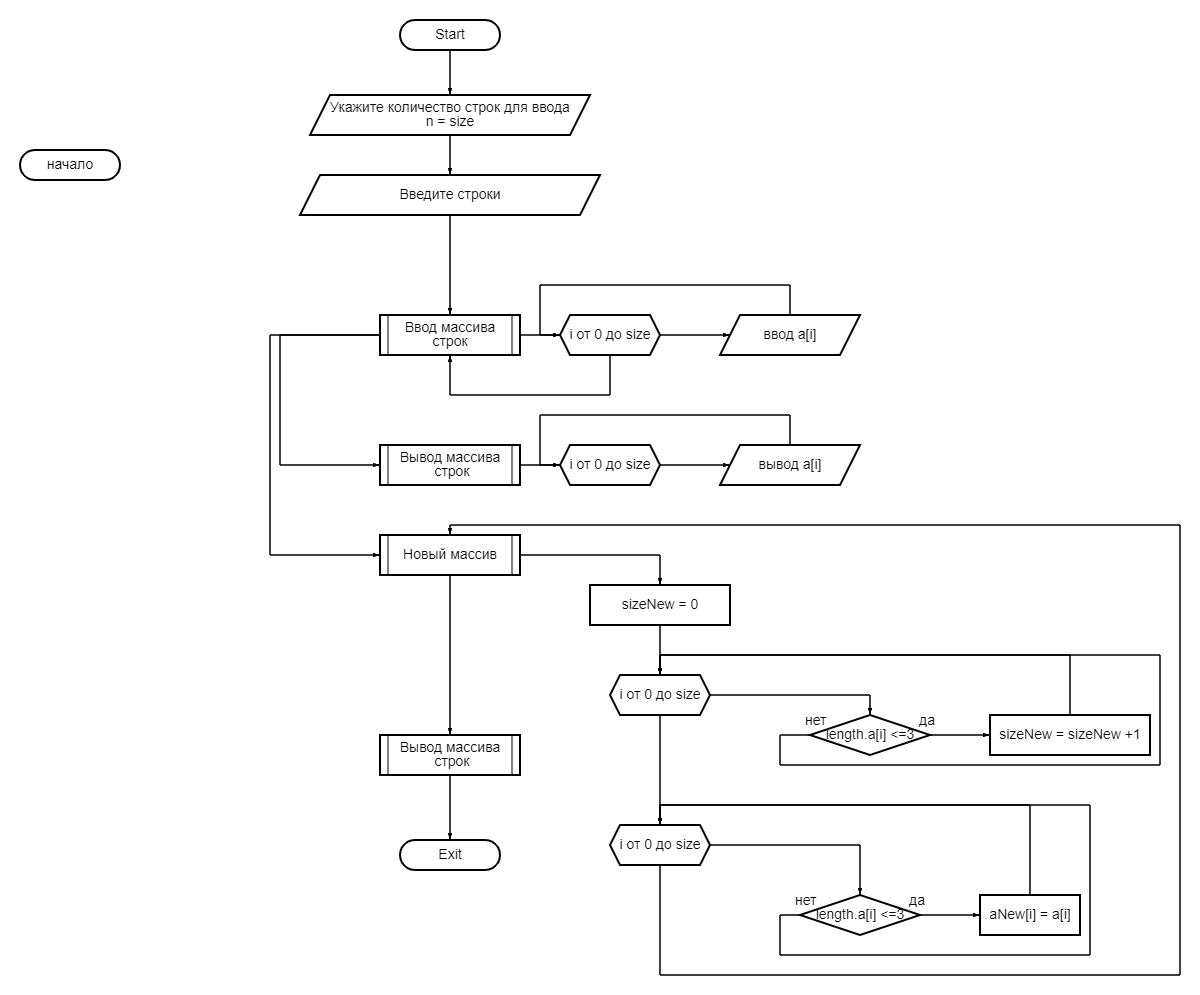
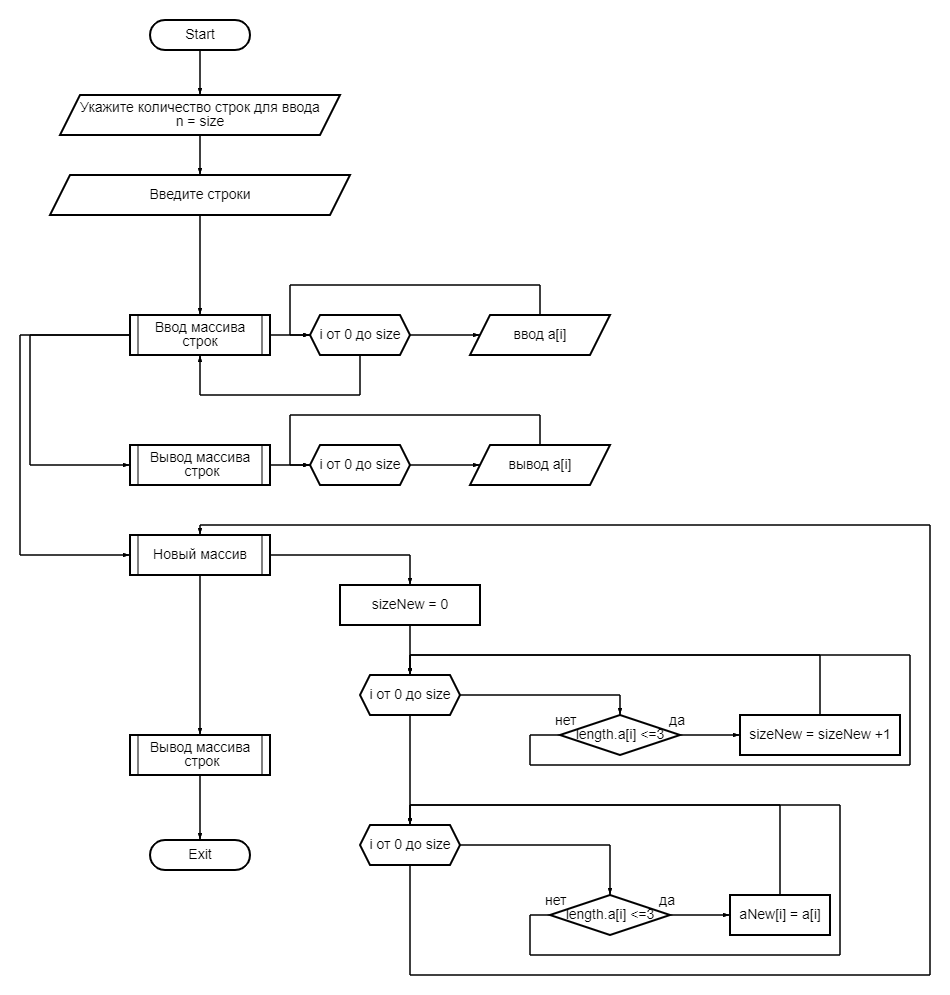
reload diagram and create readme-file

diff --git a/Control_1Q/README.md b/Control_1Q/README.md
@@ -1,0 +1,44 @@
+# Задача:
+_Программа решает следующую задачу :_
+
+Написать программу, которая из имеющегося массива строк  формирует массив из строк, длина которых меньше либо равна 3 символа. Первоначальный массив можно ввести с клавиатуры, либо задать на старте выполнения алгоритма. При решении не рекомендуется пользоваться коллекциями, лучше обойтись исключительно массивами
+
+Пример: 
+
+["hello", "2", "world", ":-)"] -> ["2", ":-)"] 
+
+# Реализация: 
+Порядок действий по блок - схеме:
+
+1. Программа принимает на ввод массив строк (через функцию _GetStringArray_);
+2. Рассчитывает количество слов в начальном массиве, длина которых меньше или равна 3 символам (через функцию _HowManyLessThanTreeLetters_);
+3. Формирует новый массив строк, в который записывает эти слова  (через функцию _LessThanThreeLettersPartArray_);
+4. Выводит на консоль результат в формате Было -> Стало. 
+
+![Блок-схема](%D0%91%D0%BB%D0%BE%D0%BA-%D1%81%D1%85%D0%B5%D0%BC%D0%B0.PNG)
+
+## _**Работа функций**_
+
+__GetStringArray__
+
+Функция _GetStringArray_ спрашивает у пользователя в консоли количество слов ( = строк), которое будет в исходном массиве.
+
+Затем, через цикл _for_ записывает построчно элементы массива.
+
+Функция возвращает исходный массив строк.
+
+__HowManyLessThanTreeLetters__
+
+Функция _HowManyLessThanTreeLetters_ принимает на вход исходный массив строк.
+
+Затем через цикл _for_ считает количество строк в массиве, длина которых меньше или равна 3м с помощью условия _if_ и счетчика _count_.
+
+Функция возвращает счетчик (целое значение количества искомых элементов).
+
+__LessThanThreeLettersPartArray__
+
+Функция принимает на вход исходный массив строк и количество элементов, в которых 3 и менее символов.
+
+Затем создает новый массив с принятым на вход количеством элементов.  Через цикл _for_  заполняет его элементами из исходного массива, выбранными по условию _if_ (колличество символов в элементе исходного массива меньше или равно 3)
+
+Функция возвращает массив из выбранных элементов исходного массива.
